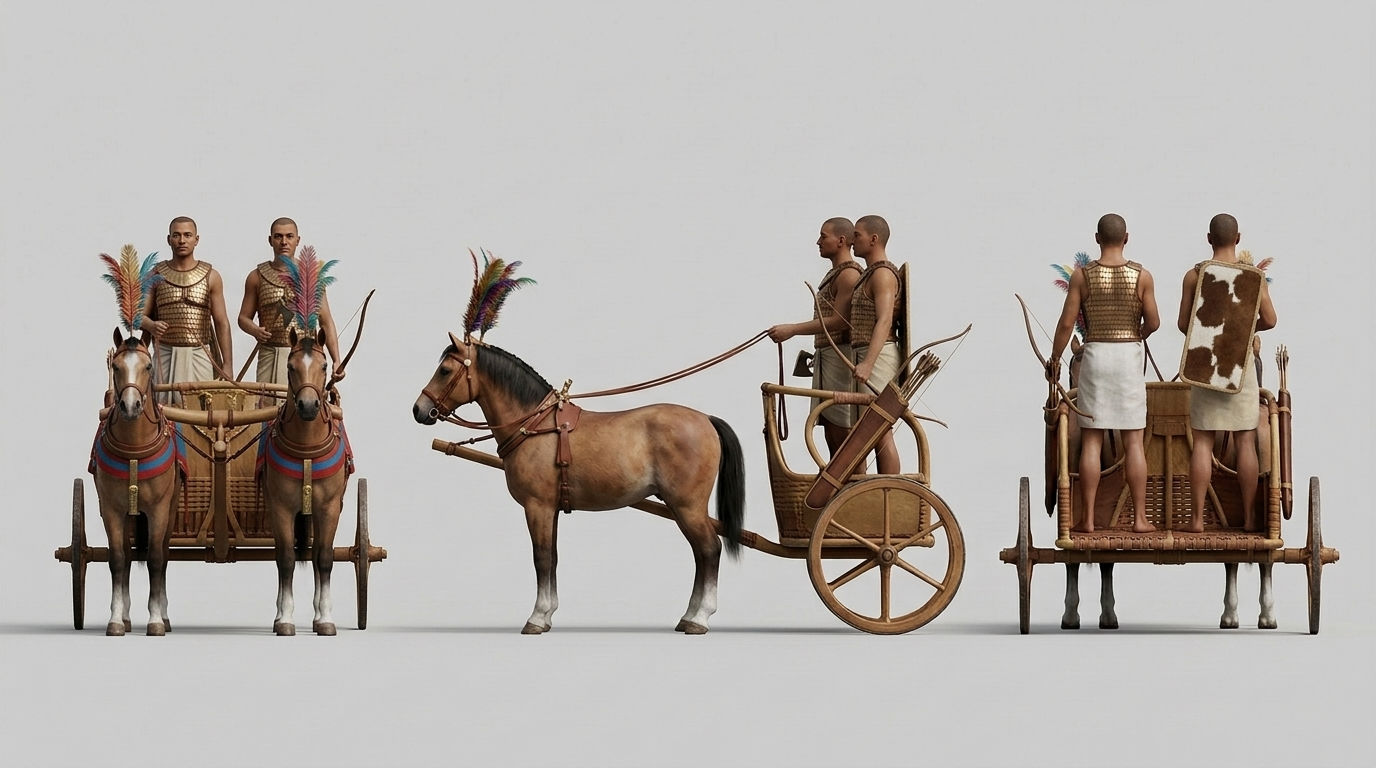
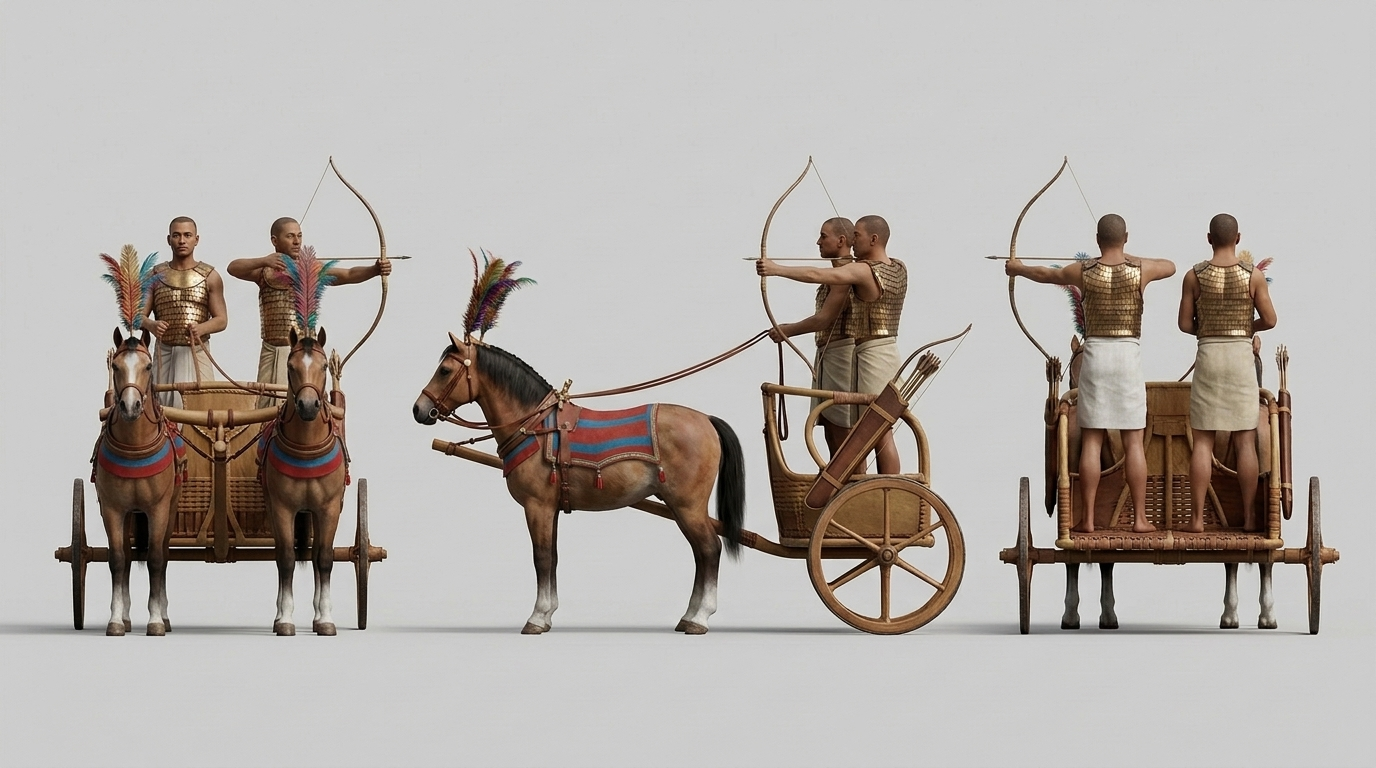
Split Kemet's chariots into an archer and a spear branch
From level 2 the Chariot Archer line branches like the Hippeis. The
archers (Veteran and Elite Chariot Archer) are redrawn with the bow drawn
and an arrow nocked, so the sheets read as missile troops. The new melee
branch is the Chariot Spearman, a crew with long spears, cowhide shields
and a khopesh, and the Royal Chariot Guard on a gilded car whose horses
wear bronze scale armour. Both have a rack of spare spears in place of
the bow case.

autoLine can now make a second branch for levels 2 and 3 from the first
one's levels. The spear crew fight at range 1 with Charge and have +2
Attack, +2 Defence and 15% more health than the archers of their level.

Claude-Session: https://claude.ai/code/session_014VBYXxiG2Wapix7xffbVix

diff --git a/js/data.js b/js/data.js
@@ -108,14 +108,22 @@ function autoLine(id, faction, tier, name, icon, weapon, move, cls, opts = {}) {
   const att = T.att + (h ? -1 : 1) + (opts.att || 0), def = T.def + (h ? 2 : -1) + (opts.def || 0);
   const mov = T.mov + (h ? -1 : 0) + (move === 'horse' || move === 'fly' ? 2 : 0) + (opts.mov || 0);
   const names = opts.names || [name, `Veteran ${name}`, `Elite ${name}`];
+  const A = opts.alt;
   const lv = [0, 1, 2].map(i => ({
     name: names[i],
     att: Math.round(att * [1, 1.25, 1.5][i]), def: Math.round(def * [1, 1.25, 1.5][i]),
     dmg: T.dmg.map(d => Math.round(d * [1, 1.12, 1.25][i] * (opts.dmgMul || 1))),
     hp: Math.round(T.hp * [1, 1.12, 1.25][i] * (opts.hpMul || 1)),
     mov: mov + (h ? (i === 2 ? 1 : 0) : i), res: T.res + [0, 5, 10][i] + (opts.res || 0),
+    branch: A && i ? opts.branch : null,
   }));
-  defLine(id, faction, tier, cls, { icon, weapon, move, range: opts.range, size: opts.size, abil: opts.abil }, lv, opts.desc || '');
+  // alt: a second branch for levels 2 and 3, made from the first one's levels with
+  // { names, branch, weapon, range, abil (replaces the line's), att, def, hpMul, desc: [two] }.
+  const alt = A && [1, 2].map(i => ({
+    ...lv[i], name: A.names[i - 1], branch: A.branch, weapon: A.weapon, range: A.range, only: A.abil || [],
+    att: lv[i].att + (A.att || 0), def: lv[i].def + (A.def || 0), hp: Math.round(lv[i].hp * (A.hpMul || 1)), desc: A.desc[i - 1],
+  }));
+  defLine(id, faction, tier, cls, { icon, weapon, move, range: opts.range, size: opts.size, abil: opts.abil }, lv, opts.desc || '', alt);
 }
 
 // ── Hellenes (hand-tuned) ───────────────────────────────────────────────────
@@ -163,7 +171,12 @@ defLine('talos', 'greek', 7, 'heavy', { icon: '🗿', weapon: 'fist', move: 'arm
 // ── Kemet (Egyptians) ───────────────────────────────────────────────────────
 autoLine('medjay', 'egypt', 1, 'Medjay', '🔱', 'lance', 'foot', 'light', { desc: 'Desert guardians of the Pharaoh\'s cities.' });
 autoLine('scorpion', 'egypt', 2, 'Serket Scorpion', '🦂', 'claw', 'foot', 'heavy', { abil: ['pierce'], desc: 'Giant scorpions sacred to Serket.' });
-autoLine('chariot', 'egypt', 3, 'Chariot Archer', '🏇', 'bow', 'horse', 'light', { range: [2, 4], desc: 'Swift war-chariots raining arrows.' });
+// From level 2 the chariots split into archers who shoot from the car and a spear crew who ride in and fight.
+autoLine('chariot', 'egypt', 3, 'Chariot Archer', '🏇', 'bow', 'horse', 'light', {
+  range: [2, 4], branch: 'ranged', desc: 'Swift war-chariots raining arrows.',
+  alt: { names: ['Chariot Spearman', 'Royal Chariot Guard'], branch: 'melee', weapon: 'lance', range: [1, 1], abil: ['charge'], att: 2, def: 2, hpMul: 1.15,
+    desc: ['A chariot crew who drive into the enemy and fight with the long spear.', 'The Pharaoh\'s own chariot guard: gilded cars, horses in scale armour, spear and khopesh.'] },
+});
 autoLine('priest', 'egypt', 4, 'Priest of Thoth', '☥', 'staff', 'foot', 'light', { abil: ['heal'], dmgMul: .4, desc: 'Scholars who know the words of healing.' });
 autoLine('anubite', 'egypt', 5, 'Anubite Warden', '🐕', 'sword', 'foot', 'heavy', { abil: ['lifesteal'], desc: 'Jackal-headed guardians of the Duat.' });
 autoLine('bennu', 'egypt', 6, 'Bennu Firebird', '🔥', 'tome', 'fly', 'light', { range: [1, 3], abil: ['regrow'], desc: 'The undying heron of Heliopolis.' });

diff --git a/tools/refs/roster.py b/tools/refs/roster.py
@@ -196,12 +196,30 @@ ROSTER = [
         'light wooden car with a floor of woven leather straps and six-spoked wheels set at the back of the car, drawn '
         'by two small horses with tall plumes; a crew of two in linen kilts: a driver holding the reins and a shield, '
         'and an archer holding a composite bow at his side, with a bow case and quiver on the side of the car.')),
+    # From tier 2 the line splits like the Hippeis: archers who shoot from the car (2, 3) and a melee crew who fight
+    # with the spear from it (2r, 3r).
     dict(id='chariot-2', faction='egypt', kind='chariot', name='Veteran Chariot Archer', subject=(
         'The same chariot with a veteran crew in bronze scale corselets, the horses in red and blue painted trappings '
-        'with tall ostrich plumes, and gilded fittings on the car.')),
+        'with tall ostrich plumes, and gilded fittings on the car. The archer holds his composite bow up in his left '
+        'hand with an arrow nocked, ready to shoot, and a full quiver of arrows hangs on the side of the car.')),
     dict(id='chariot-3', faction='egypt', kind='chariot', name='Elite Chariot Archer', subject=(
         'A chariot of the royal guard: the car sheathed in gold with relief decoration like Tutankhamun\'s state '
-        'chariot, the horses in gilded harness with tall plumes, the crew in bronze scale corselets with broad collars.')),
+        'chariot, the horses in gilded harness with tall plumes, the crew in bronze scale corselets with broad collars. '
+        'The archer holds a large gilded composite bow up in his left hand with an arrow nocked, ready to shoot, with '
+        'two full quivers and a bow case on the sides of the car.')),
+    dict(id='chariot-2r', faction='egypt', kind='chariot', name='Chariot Spearman', subject=(
+        'The same chariot and team, now a melee crew: the driver holds the reins and a cowhide shield, and the warrior '
+        'beside him holds a long spear about 2.5 m long upright in his right hand and a cowhide shield on his left arm, '
+        'with a bronze khopesh sickle-sword at his belt; both wear padded linen corselets over their kilts. There is no '
+        'bow anywhere: take away the bow, the bow case and the quiver, and put a rack of three spare spears on the side '
+        'of the car in their place. The horses wear red and blue painted trappings with tall ostrich plumes.')),
+    dict(id='chariot-3r', faction='egypt', kind='chariot', name='Royal Chariot Guard', subject=(
+        'A melee chariot of the royal guard: the car sheathed in gold with relief decoration like Tutankhamun\'s state '
+        'chariot; the horses wear coats of bronze scale armour over their backs and necks, gilded harness and tall '
+        'plumes. The crew wear bronze scale corselets with broad collars: the driver holds the reins and a gold-rimmed '
+        'shield, and the warrior holds a long bronze-headed spear upright in his right hand and a gold-rimmed shield on '
+        'his left arm, with a gilded khopesh at his belt. There is no bow anywhere: take away the bow, the bow case and '
+        'the quiver, and put a rack of three spare spears on the side of the car in their place.')),
     dict(id='priest-1', faction='egypt', kind='figure', name='Priest of Thoth', subject=(
         'A priest of Thoth: shaven head, a long white pleated linen robe, sandals, a scribal palette at the belt, a '
         'papyrus scroll in the left hand and a wooden staff topped with a carved ibis head in the right.')),

diff --git a/README.md b/README.md
@@ -43,7 +43,7 @@ Neutral creatures roam the wilds: dire wolves, skeletons, harpies, draugr, giant
 - New recruits arrive every week. Each dwelling has one pool of creatures, which you can buy at any level the town has unlocked. Recruits join the hero if they are in town, otherwise the garrison.
 - With an upgrade built, a hero in town can convert a whole stack to the next level by paying the price difference per creature.
 - The **Temple** heals every wounded stack when your hero visits. It also raises the fallen (the creatures your hero lost in won battles) for their full price, ichor included for beasts. It gives +1 ichor per day and lets your god answer twice per battle.
-- Some lines branch at levels 2 and 3. The Hippeis split into melee shock cavalry and ranged javelin cavalry: both are recruited from the same dwelling pool, and a level 1 stack can be upgraded into either branch. A branched stack stays on its branch.
+- Some lines branch at levels 2 and 3. The Hippeis split into melee shock cavalry and ranged javelin cavalry, and Kemet's chariots into archers (Veteran and Elite Chariot Archer) and a spear crew who charge into melee (Chariot Spearman and Royal Chariot Guard). Both branches are recruited from the same dwelling pool, and a level 1 stack can be upgraded into either branch. A branched stack stays on its branch.
 - A hero leads up to 7 stacks; recruiting a creature type you already have merges it into that stack.
 - Resources are gold, wood, stone and ichor. Ichor is the rare one, needed for tier 6 and 7 creatures, elite buildings and buildings for beasts.
 - Rival AI players explore, collect, build, recruit, fight monsters and besiege towns. Fights between two AIs are auto-resolved. Any fight that involves you is played as a tactical battle.
